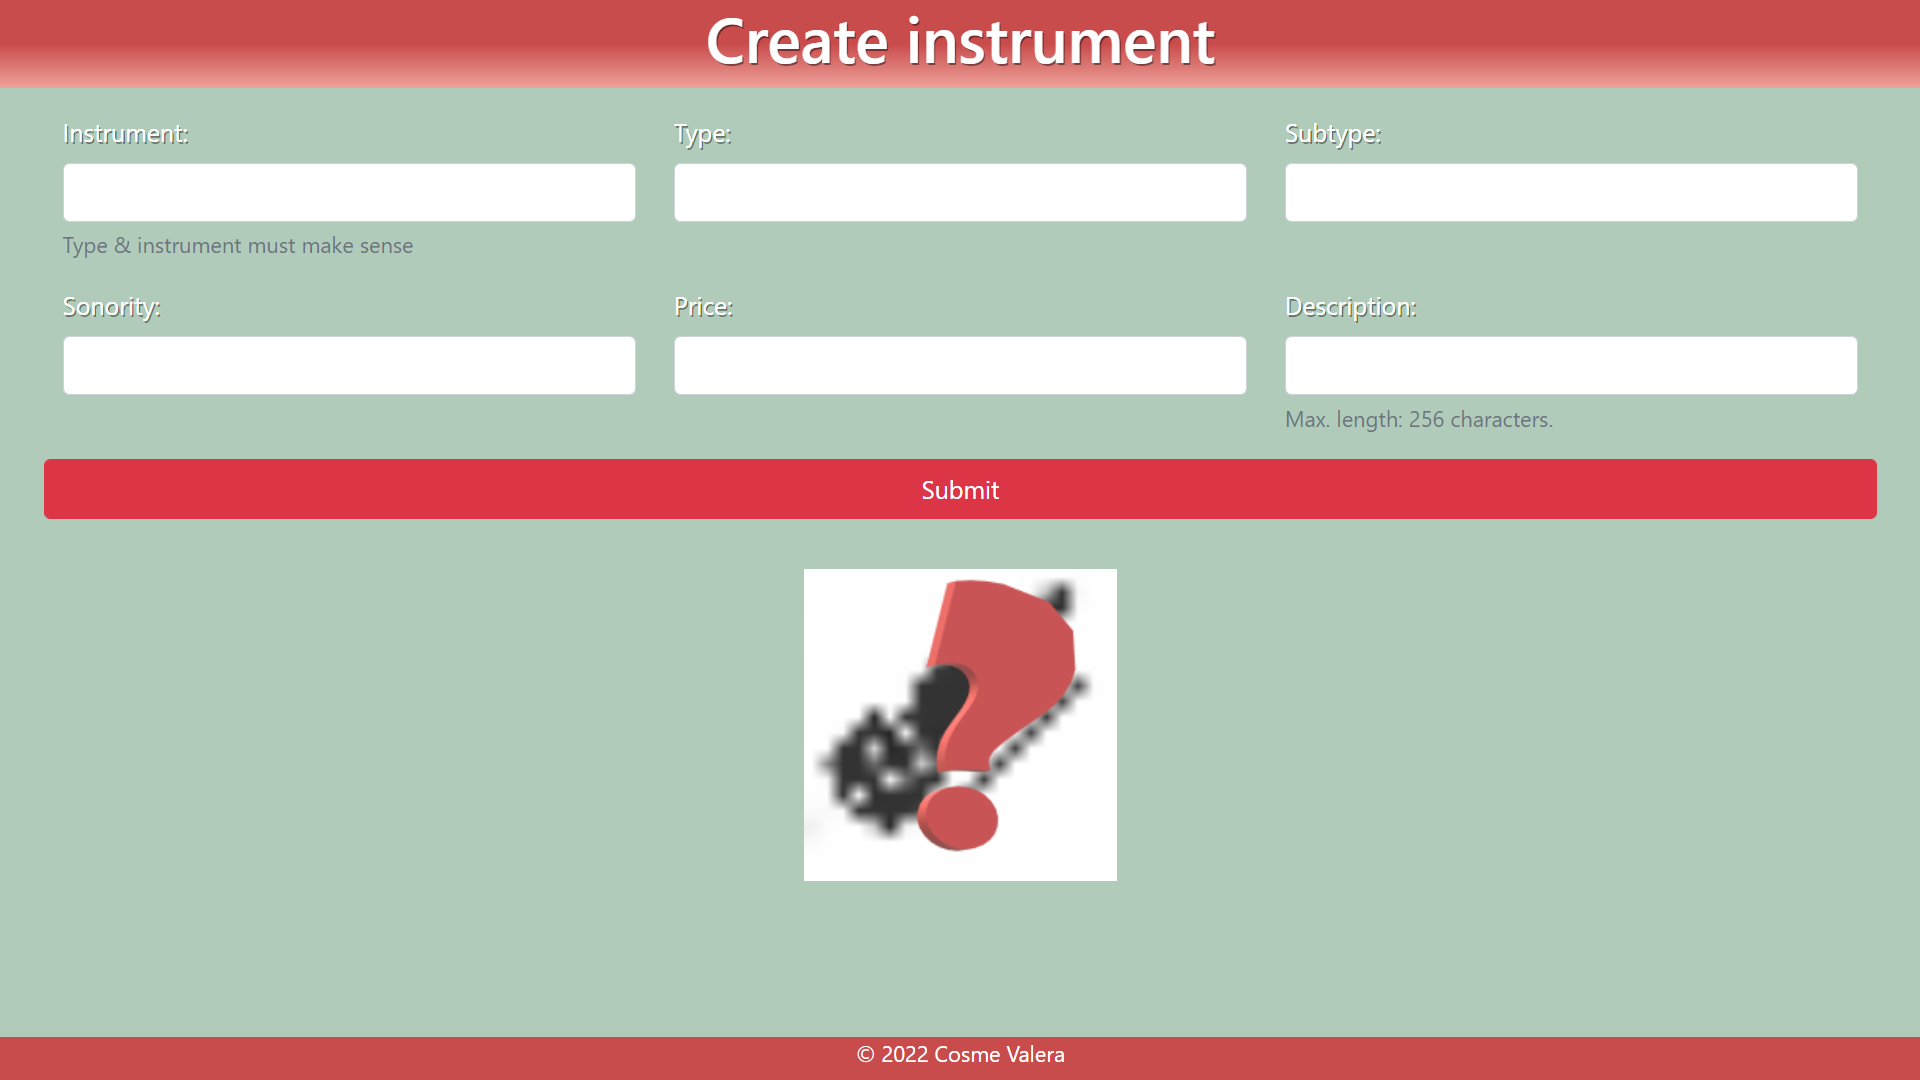
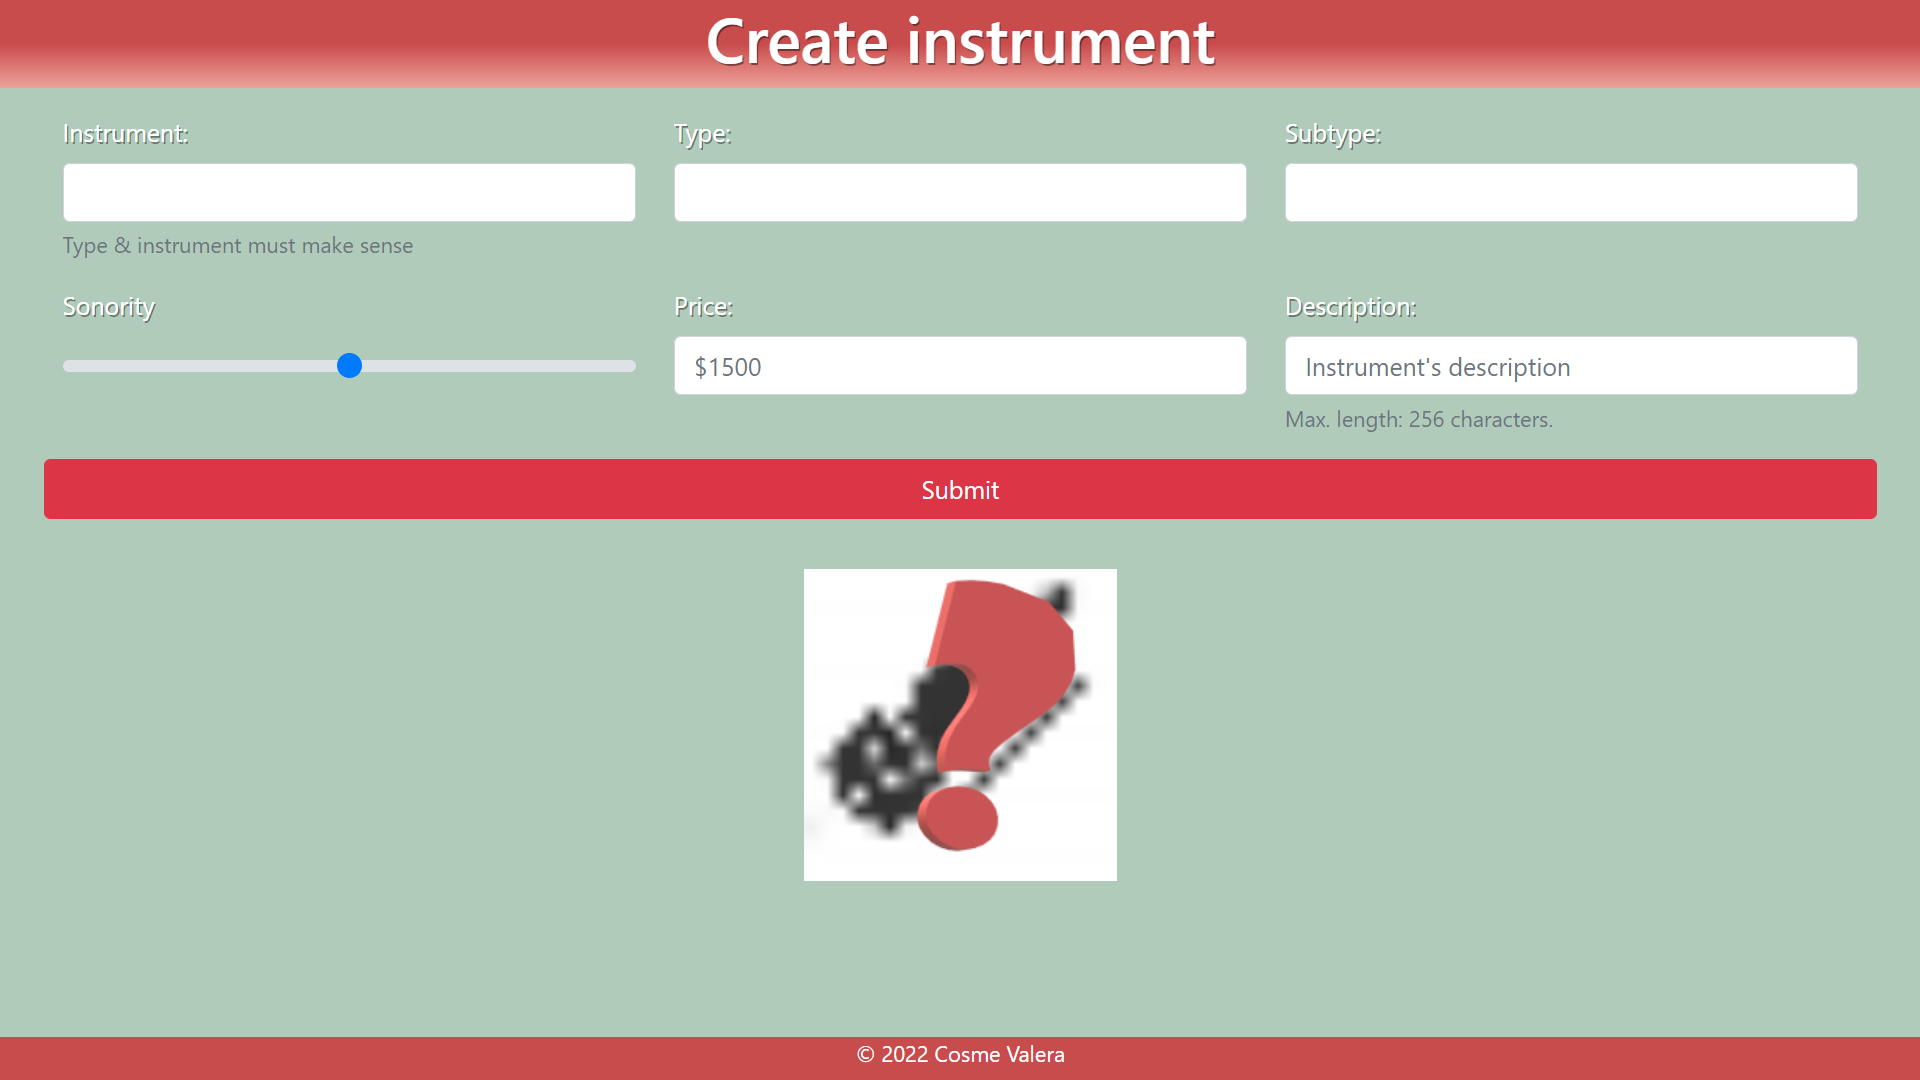
improve create.html

Changed region(s): [[0.0312, 0.3056, 0.3438, 0.3667], [0.6875, 0.3361, 0.8125, 0.3667], [0.375, 0.3361, 0.4062, 0.3667]]

diff --git a/public/create.html b/public/create.html
@@ -73,33 +73,53 @@
               <option>Brass</option>
             </select>
           </div>
+          <!-- Poner un tooltip, si pones el raton encima te diga el value actual de la barra -->
           <div class="form-group col-lg-4 col-sm-6 col-12">
-            <label for="sonority">Sonority:</label>
-            <select class="form-control" id="sonority">
+            <label for="sonority">Sonority</label>
+            <input
+              type="range"
+              class="custom-range pt-3"
+              min="0"
+              max="100"
+              step="10"
+              value="50"
+              id="sonority"
+            />
+
+            <!-- <label for="sonority">Sonority:</label>
+            <br />
+            0
+            <input type="range" id="sonority" name="sonorityName" value="50" />
+            100 =
+            <output name="x" for="a b"></output>
+            <br /><br /> -->
+
+            <!-- <select class="form-control" id="sonority">
               <option></option>
               <option>Wood</option>
               <option>Brass</option>
-            </select>
+            </select> -->
           </div>
           <div class="form-group col-lg-4 col-sm-6 col-12">
             <label for="price">Price:</label>
-            <select class="form-control" id="price">
-              <option></option>
-              <option>Wood</option>
-              <option>Brass</option>
-            </select>
+            <input
+              class="form-control"
+              type="number"
+              id="price"
+              name="price"
+              min="0"
+              max="99999"
+              placeholder="$1500"
+            />
           </div>
           <div class="form-group col-lg-4 col-sm-6 col-12">
             <label for="description">Description:</label>
-            <select
+            <input
               class="form-control"
+              type="text"
               id="description"
-              aria-describedby="descriptionHelpBlock"
-            >
-              <option></option>
-              <option>Wood</option>
-              <option>Brass</option>
-            </select>
+              placeholder="Instrument's description"
+            />
             <small id="descriptionHelpBlock" class="form-text text-muted">
               Max. length: 256 characters.
             </small>
@@ -120,22 +140,22 @@
       </div>
     </footer>
     <script
-        src="https://code.jquery.com/jquery-3.3.1.slim.min.js"
-        integrity="sha384-q8i/X+965DzO0rT7abK41JStQIAqVgRVzpbzo5smXKp4YfRvH+8abtTE1Pi6jizo"
-        crossorigin="anonymous"
+      src="https://code.jquery.com/jquery-3.3.1.slim.min.js"
+      integrity="sha384-q8i/X+965DzO0rT7abK41JStQIAqVgRVzpbzo5smXKp4YfRvH+8abtTE1Pi6jizo"
+      crossorigin="anonymous"
     ></script>
     <script
-        src="https://cdnjs.cloudflare.com/ajax/libs/popper.js/1.14.7/umd/popper.min.js"
-        integrity="sha384-UO2eT0CpHqdSJQ6hJty5KVphtPhzWj9WO1clHTMGa3JDZwrnQq4sF86dIHNDz0W1"
-        crossorigin="anonymous"
+      src="https://cdnjs.cloudflare.com/ajax/libs/popper.js/1.14.7/umd/popper.min.js"
+      integrity="sha384-UO2eT0CpHqdSJQ6hJty5KVphtPhzWj9WO1clHTMGa3JDZwrnQq4sF86dIHNDz0W1"
+      crossorigin="anonymous"
     ></script>
     <script
-        src="https://stackpath.bootstrapcdn.com/bootstrap/4.3.1/js/bootstrap.min.js"
-        integrity="sha384-JjSmVgyd0p3pXB1rRibZUAYoIIy6OrQ6VrjIEaFf/nJGzIxFDsf4x0xIM+B07jRM"
-        crossorigin="anonymous"
+      src="https://stackpath.bootstrapcdn.com/bootstrap/4.3.1/js/bootstrap.min.js"
+      integrity="sha384-JjSmVgyd0p3pXB1rRibZUAYoIIy6OrQ6VrjIEaFf/nJGzIxFDsf4x0xIM+B07jRM"
+      crossorigin="anonymous"
     ></script>
     <!-- <script src="https://requirejs.org/docs/release/2.3.5/minified/require.js"></script> -->
-    
+
     <script src="./create.js"></script>
   </body>
 </html>

diff --git a/README.md b/README.md
@@ -1,5 +1,5 @@
 # About
-Inventory of instruments.
+An inventory of instruments.
 I developed a responsive web page using HTML, CSS, JS.
 Also; pug templates, express, node.js, mongoose (I use mongoDB as database to store instruments).
 
